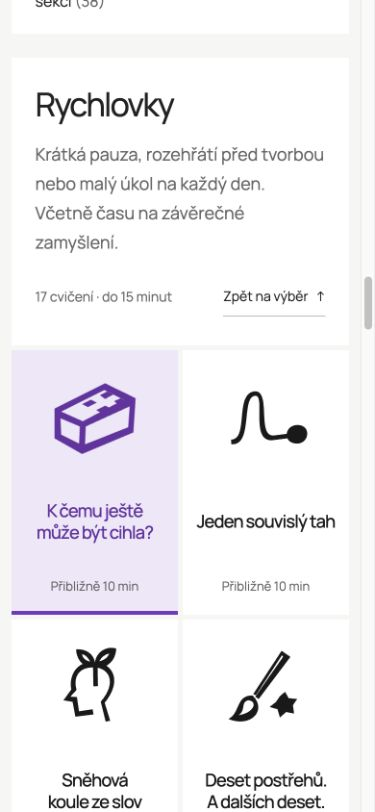
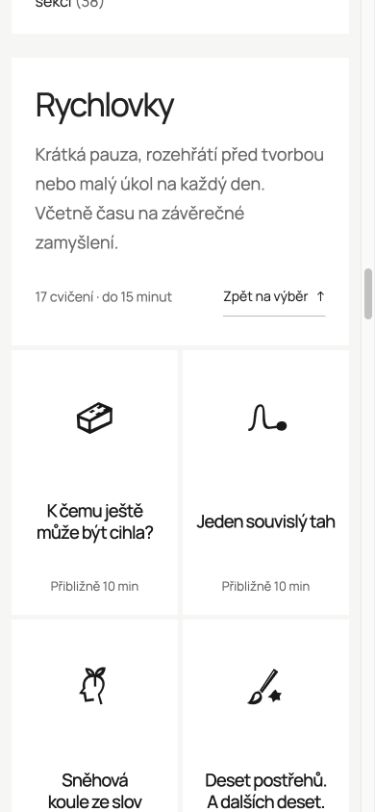
Zmensit ikony jednotlivych kreativnich cviceni

diff --git a/src/styles/creative-exercises.css b/src/styles/creative-exercises.css
@@ -38,7 +38,7 @@
 .exercise-grid>li{display:flex;min-width:0}
 .exercise-card{display:grid;grid-template-rows:125px 1fr auto;justify-items:center;gap:18px;width:100%;min-height:310px;padding:24px 20px;background:#fff;border:0;color:#191919;text-align:center;isolation:isolate;transition:background-color .25s,color .25s,box-shadow .25s}
 .exercise-card-icon{display:grid;place-items:center;align-self:center}
-.exercise-card .brush-icon{display:block;width:110px;height:110px;transform:rotate(-3deg)}
+.exercise-card .brush-icon{display:block;width:55px;height:55px;transform:rotate(-3deg)}
 .exercise-card:focus-visible{background:#f0e7fa;color:#6731a2;box-shadow:inset 0 -4px #7639bd;outline:3px solid #7639bd!important;outline-offset:-5px!important}
 @media(hover:hover){.exercise-card:hover{background:#f0e7fa;color:#6731a2;box-shadow:inset 0 -4px #7639bd}}
 .exercise-card:active{background:#e5d8f5}
@@ -82,7 +82,7 @@
 @media(max-width:1100px){.exercise-reading-layout{grid-template-columns:220px minmax(0,1fr)}.exercise-sidebar{padding:30px 22px}}
 @media(max-width:1000px){.exercise-grid{grid-template-columns:repeat(3,minmax(0,1fr))}.editorial-page .exercise-card h3{font-size:22px}}
 @media(max-width:800px){.exercise-reading-layout{grid-template-columns:1fr}.exercise-sidebar{position:static;padding:30px 7%}.exercise-sidebar ul{margin-bottom:20px}.exercise-sidebar nav{display:flex;flex-wrap:wrap;gap:0 24px}.exercise-body{padding:35px 7% 40px}.exercise-chooser-heading{display:block}.exercise-chooser-heading p{margin-top:20px}.exercise-collection-heading{align-items:flex-start;flex-direction:column;gap:20px}.exercise-collection-meta{width:100%;flex-direction:row;align-items:center;justify-content:space-between}}
-@media(max-width:700px){.exercise-grid{grid-template-columns:repeat(2,minmax(0,1fr))}.exercise-card{grid-template-rows:100px 1fr auto;min-height:275px;padding:20px 14px;gap:14px}.exercise-card .brush-icon{width:95px;height:95px}.editorial-page .exercise-card h3{font-size:clamp(17px,4.7vw,22px)}.exercise-card-time{font-size:13px}.exercise-chooser-heading{padding:25px 7%}.exercise-collection-nav{grid-template-columns:repeat(2,minmax(0,1fr))}.exercise-collection-link{min-height:250px;grid-template-rows:75px 1fr auto auto;padding:22px 12px;gap:10px}.exercise-collection-link .brush-icon{width:70px;height:70px}.exercise-collection-link strong{font-size:clamp(20px,5.4vw,27px);align-self:center}.exercise-collection-link>span{font-size:14px}.exercise-collection-link .exercise-collection-count{gap:15px;font-size:13px}.editorial-page .exercise-selection-note{padding:20px 7%;font-size:14px}.exercise-collections{margin-top:25px;gap:25px}.exercise-collection-heading{padding:30px 7%}.exercise-collection-meta{font-size:14px;gap:14px}.exercise-collection-meta a{gap:8px}.exercise-collection-more summary{padding:22px 7%;font-size:16px}.editorial-page .exercise-editorial-note{padding:25px 7%}.exercise-hero{padding:25px 7% 35px}.exercise-back{font-size:16px}.exercise-hero h1{font-size:clamp(36px,10vw,52px)}.editorial-page .exercise-position{font-size:15px;margin:25px 0 18px}.exercise-facts{display:grid;gap:22px}.exercise-facts dd{font-size:19px}.editorial-page .exercise-body h2{font-size:30px}.editorial-page .exercise-body p,.exercise-steps{font-size:18px;line-height:1.75}.editorial-page .exercise-example p:not(.exercise-example-note){font-size:21px}.exercise-body>section{margin-bottom:35px}.exercise-neighbours{grid-template-columns:1fr}.exercise-neighbours>a{padding:30px 7%}}
+@media(max-width:700px){.exercise-grid{grid-template-columns:repeat(2,minmax(0,1fr))}.exercise-card{grid-template-rows:100px 1fr auto;min-height:275px;padding:20px 14px;gap:14px}.exercise-card .brush-icon{width:48px;height:48px}.editorial-page .exercise-card h3{font-size:clamp(17px,4.7vw,22px)}.exercise-card-time{font-size:13px}.exercise-chooser-heading{padding:25px 7%}.exercise-collection-nav{grid-template-columns:repeat(2,minmax(0,1fr))}.exercise-collection-link{min-height:250px;grid-template-rows:75px 1fr auto auto;padding:22px 12px;gap:10px}.exercise-collection-link .brush-icon{width:70px;height:70px}.exercise-collection-link strong{font-size:clamp(20px,5.4vw,27px);align-self:center}.exercise-collection-link>span{font-size:14px}.exercise-collection-link .exercise-collection-count{gap:15px;font-size:13px}.editorial-page .exercise-selection-note{padding:20px 7%;font-size:14px}.exercise-collections{margin-top:25px;gap:25px}.exercise-collection-heading{padding:30px 7%}.exercise-collection-meta{font-size:14px;gap:14px}.exercise-collection-meta a{gap:8px}.exercise-collection-more summary{padding:22px 7%;font-size:16px}.editorial-page .exercise-editorial-note{padding:25px 7%}.exercise-hero{padding:25px 7% 35px}.exercise-back{font-size:16px}.exercise-hero h1{font-size:clamp(36px,10vw,52px)}.editorial-page .exercise-position{font-size:15px;margin:25px 0 18px}.exercise-facts{display:grid;gap:22px}.exercise-facts dd{font-size:19px}.editorial-page .exercise-body h2{font-size:30px}.editorial-page .exercise-body p,.exercise-steps{font-size:18px;line-height:1.75}.editorial-page .exercise-example p:not(.exercise-example-note){font-size:21px}.exercise-body>section{margin-bottom:35px}.exercise-neighbours{grid-template-columns:1fr}.exercise-neighbours>a{padding:30px 7%}}
 @media(prefers-reduced-motion:reduce){.exercise-card,.exercise-collection-link{transition:none}}
 
 .exercise-detail-page{overflow:clip}

diff --git a/docs/DESIGN.md b/docs/DESIGN.md
@@ -685,3 +685,13 @@ Produkční npm run build s /marek-stojka-web/ prošel: 103 souborů bez chyb/va
 
 
 Autor následně tuto revizi přijal („Skvělý“) a výslovně zadal nahrání na GitHub. Push změn přechodu, menších ikon a papírového Kam dál do main včetně navazujícího automatického zveřejnění je autorizovaný. Obsahové texty se touto vizuální revizí neměnily.
+
+
+## Menší ikony jednotlivých kreativních cvičení — 8. 11. 2026
+
+Autor chce zmenšení ikon také v rubrice Kreativní cvičení, s výslovnou výjimkou prvních šesti dlaždic rozcestníku. Ikony jednotlivých cvičení v creative-exercises.css jsou nyní 55 × 55 px místo 110 × 110 px na desktopu a 48 × 48 px místo 95 × 95 px na mobilu. Velké úvodní ikony zůstávají 90 px / 70 px mobil. Velikost klikacích karet, jejich zarovnání, texty, časy i ikony samotné zůstávají; menší symbol má více volného prostoru kolem.
+
+Ověřeno 1440 a 390 px, naměřené velikosti ikon, žádný vodorovný přesah. Funguje kotva z úvodní dlaždice, rozbalení dalších cvičení Enterem, otevření detailu a návrat přes ClientRouter. Konzole bez chyb a varování. Produkční npm run build s /marek-stojka-web/ úspěšný: 103 souborů bez chyb/varování/upozornění, 81 HTML a 2611 místních URL. Synchronizovaný místní náhled na 4321. Aktuální snímky nahled-cviceni-mensi-ikony.jpg a nahled-cviceni-rychlovky-mobile.jpg. Tato navazující úprava je zatím lokální, předchozí push 3207bd2 se týkal papírového přechodu a obecného průvodce.
+
+
+Autor následně přijal menší ikony cvičení („Super“) a výslovně zadal push na GitHub. Nahrání této úpravy do main i navazující automatické zveřejnění jsou autorizované; výše popsané kontroly platí pro stejné zdroje.

diff --git a/README.md b/README.md
@@ -439,3 +439,8 @@ Aktuální náhledy: [přiblížení kuličky](docs/nahled-prechod-kulicka.jpg),
 Ověřena navigace myší i klávesnicí, návrat a opakovaný vstup, mobilní animace a rozložení 1440/800/390/320 px. Produkční build bez chyb: 103 souborů, 81 HTML, 2611 místních URL. Lokální revize po již zveřejněném commitu 5a21b3e.
 
 Autor následně přijal tuto vizuální revizi a zadal nahrání na GitHub; push do main včetně automatického zveřejnění je autorizovaný. Výše uvedené kontroly platí pro stejné zdroje.
+
+
+Kreativní cvičení — menší ikony (8. 11. 2026): symboly jednotlivých cvičení jsou přibližně poloviční (55 px desktop / 48 px mobil), úvodních šest dlaždic má původní velké ikony (90 / 70 px). Klikací plocha, texty a struktura se nemění. [Místní náhled](http://127.0.0.1:4321/kreativec/magazin/cviceni#rychlovky), [desktop](docs/nahled-cviceni-mensi-ikony.jpg), [mobil](docs/nahled-cviceni-rychlovky-mobile.jpg). Ověřen desktop 1440 px, mobil 390 px, rozbalení klávesnicí, proklik do detailu a návrat. Produkční build bez chyb: 103 souborů, 81 HTML a 2611 místních URL. Lokální revize po commitu 3207bd2.
+
+Autor následně přijal menší ikony cvičení a výslovně zadal nahrání této revize na GitHub včetně navazujícího automatického zveřejnění.
